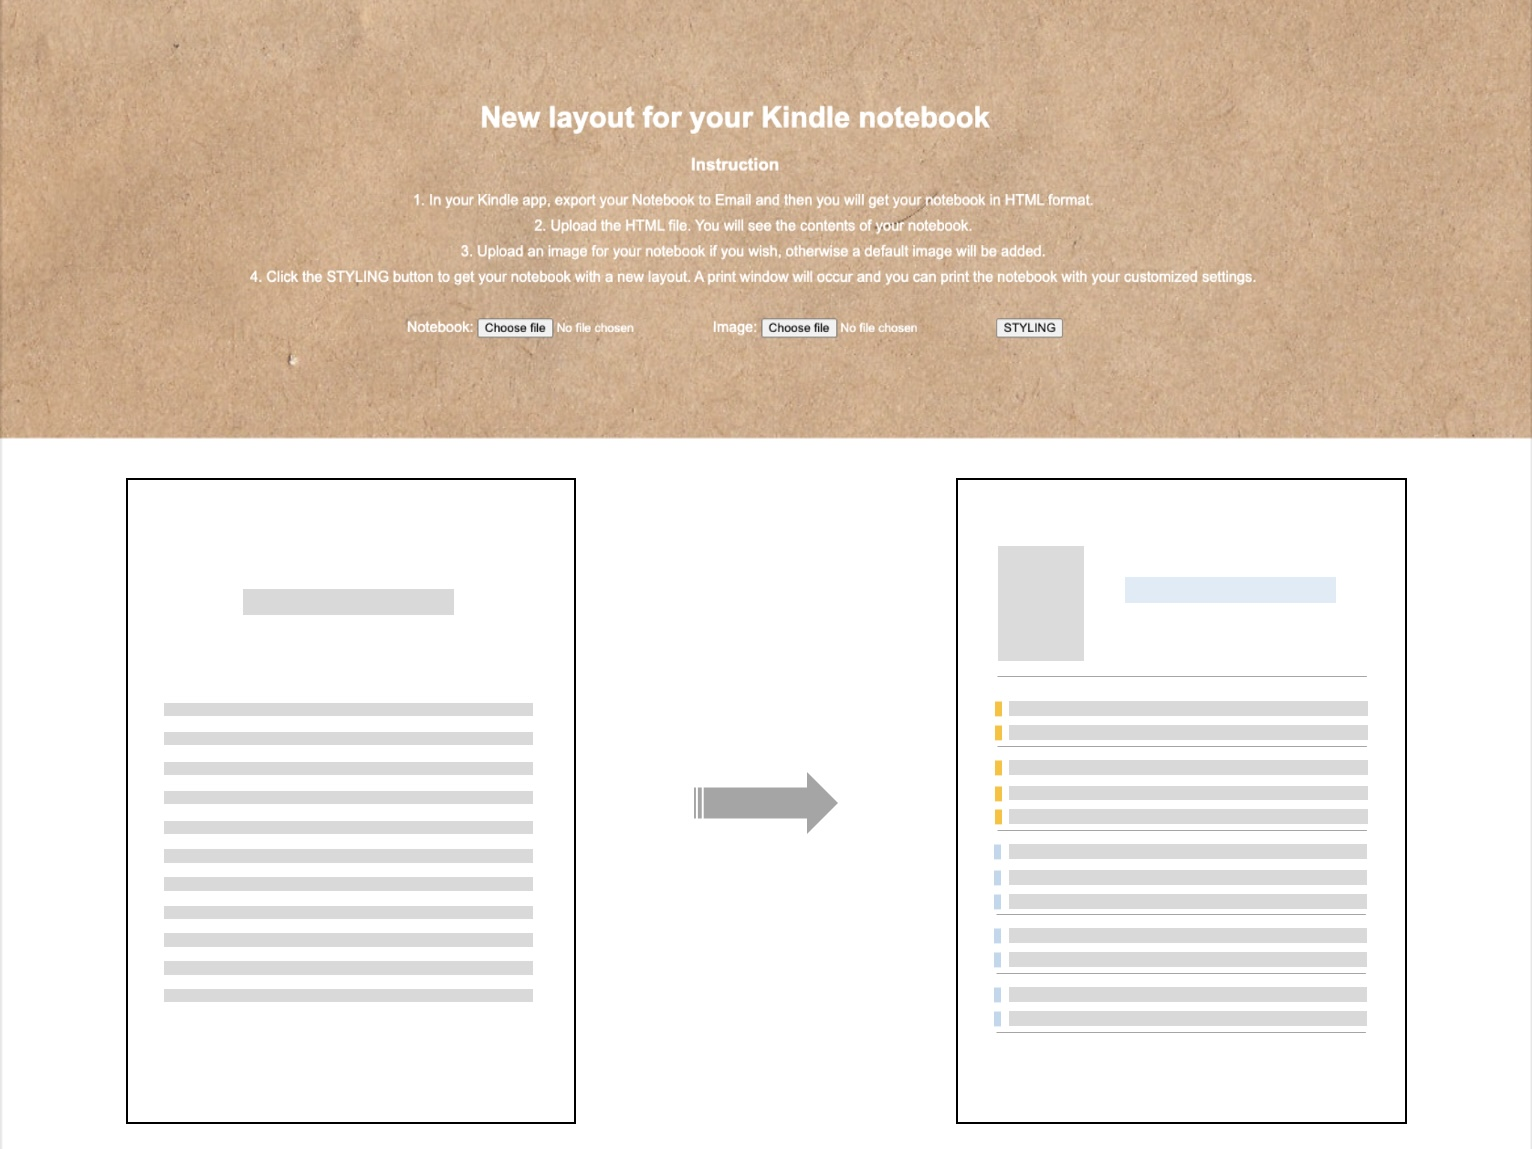
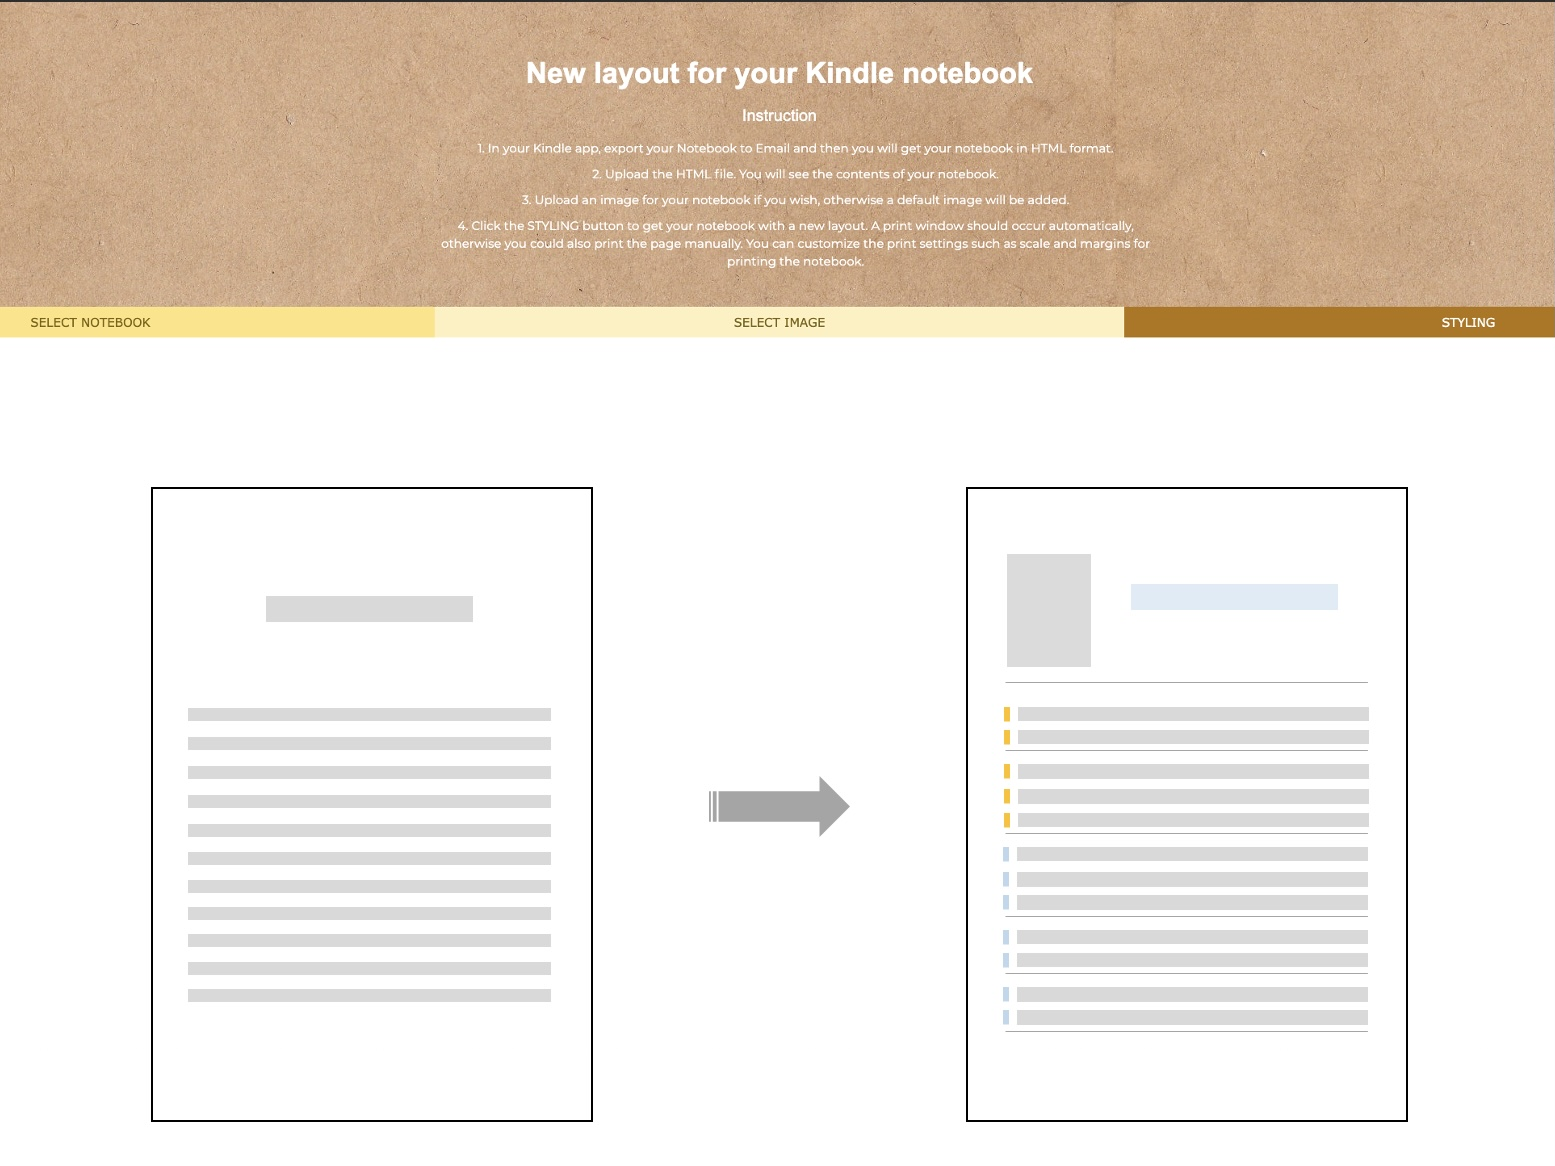
changed files for kindle notebook project

diff --git a/kindle_notebook/index.html b/kindle_notebook/index.html
@@ -1,104 +1,61 @@
 <!DOCTYPE html>
 <html>
-<head>
-<meta charset="utf-8">
-<title>Layout for Kindle Notebook</title>
+<meta charset="UTF-8">
+<meta name="viewport" content="width=device-width, initial-scale=1">
+<link rel="stylesheet" href="https://www.w3schools.com/w3css/4/w3.css">
+<link rel="stylesheet" href="https://cdnjs.cloudflare.com/ajax/libs/font-awesome/4.6.3/css/font-awesome.min.css">
+<link rel="stylesheet" href="https://fonts.googleapis.com/css?family=Montserrat">
 <script src="https://code.jquery.com/jquery-3.5.0.js"></script>
 <style type="text/css" media="print">
     .no-print { display: none; }
-    .bg { display: none; }
 </style>
 <style>
-    html,body{    
-        margin:0;
-        padding:0;
-    }
-    #operator {
-        text-align: center;
-        list-style-position: inside;
-        text-align: center;
-        position: absolute;
-        top: 50%;
-        left: 50%;
-        transform: translate(-50%, -50%);
+   #instruction {
         color: white;
-        font-family: Arial, Helvetica, sans-serif;
+        font-family: Montserrat, sans-serif;
     }
-    .bg {
-        background: url(BG.jpg) no-repeat center; 
-        background-size: cover;
-        height: 500px; 
-        position: relative;
-    }
-    .button {
-       margin-top: 20px; 
-    }
-    /*
-    .button {
-        background-color: transparent;
-        color: white; 
-        border: 1px solid white;
-        border-radius: 2px;
-        padding-left: 15px;
-        padding-right: 15px;
-        padding-top: 5px;
-        padding-bottom: 5px;
-        margin-top: 20px;
-    }
-    
-    .button:hover {
-      background-color: lightsteelblue;
-      color: white;
-    }
-    */
     li {
         margin: 10px;
-    }
+        list-style-position: inside;
     }
 </style>
-</head>
 <body>
-    <div class="bg" > 
-    <div id="operator" class="no-print">
-            <h1>New layout for your Kindle notebook</h1>  
-            <h3>Instruction</h3>
-            <ol>
-                <li>In your Kindle app, export your Notebook to Email and then you will get your notebook in HTML format.</li>
-                <li>Upload the HTML file. You will see the contents of your notebook.</li>
-                <li>Upload an image for your notebook if you wish, otherwise a default image will be added.</li>
-                <li>Click the STYLING button to get your notebook with a new layout. A print window should occur automatically, otherwise you could also print the page manually.
-                    You can customize the print settings such as scale and margins for printing the notebook.</li>
-            </ol>
-            <!--
-            <div>
-            <label for="upload" class="btn">Select notebook</label>
-            <input id="upload" style="visibility:hidden;" type="file">
-            <label for="picField" class="btn">Select image</label>
-            <input id="picField" style="visibility:hidden;" type="file">
-            <img id="outImage" style="height: 80px">  
-            </div>
-            -->
-            
-            <div>
-            Notebook: <input type="file" id="upload" accept=".html">
-            Image: <input type="file" id="picField" accept="image/*">
-            <button id="styling" class="button">STYLING</button>
-            </div>
-        
-            
-        <!--
-            <button id="print" onclick="window.print()">Print Notebook</button>
-        -->
-              
+
+
+<!-- Band Description -->
+    <div class="no-print" id="operator">
+    <div id="instruction" style="background-image: url(BG.jpg); padding-top: 60px; padding-bottom: 30px">
+    <div class="w3-container w3-center w3-content" style="max-width:1000px">
+      <h1><b>New layout for your Kindle notebook</b></h1>  
+                <h4>Instruction</h4>
+                <ol>
+                    <li>In your Kindle app, export your Notebook to Email and then you will get your notebook in HTML format.</li>
+                    <li>Upload the HTML file. You will see the contents of your notebook.</li>
+                    <li>Upload an image for your notebook if you wish, otherwise a default image will be added.</li>
+                    <li>Click the STYLING button to get your notebook with a new layout. A print window should occur automatically, otherwise you could also print the page manually.
+                        You can customize the print settings such as scale and margins for printing the notebook.</li>
+                </ol>           
     </div>
+    </div>
+    <div class="W3-row-padding w3-center">
+            <div class="w3-third">
+                <label for="upload" class="w3-button w3-block" style="background-color: #ffe380; color: #7d6200">SELECT NOTEBOOK</label>
+                <input type="file" id="upload" accept=".html" style="visibility:hidden;">
+            </div>
+            <div class="w3-third">
+                <label for="picField" class="w3-button w3-block" style="background-color: #fff1bf; color: #7d6200">SELECT IMAGE</label>
+                <input type="file" id="picField" accept="image/*" style="visibility:hidden;">
+            </div>
+            <div class="w3-third">
+                <button id="styling" class="w3-button w3-block" style="background-color: #b37400; color: white">STYLING</button>
+            </div>
+        </div>
     </div>
     <img id="outImage" class="no-print" style="height: 80px; display: none" > 
-    <h3 id="content" class="no-print" style="text-align: center"></h3>
-    
+    <div class="w3-container w3-center"><h3 id="content" class="no-print" ></h3></div>   
     <div id="loaded">  
     </div>
-    
-    <script>
+<script>
     var content;
     document.getElementById('upload').addEventListener('change', readFileAsString)
     function readFileAsString() {
